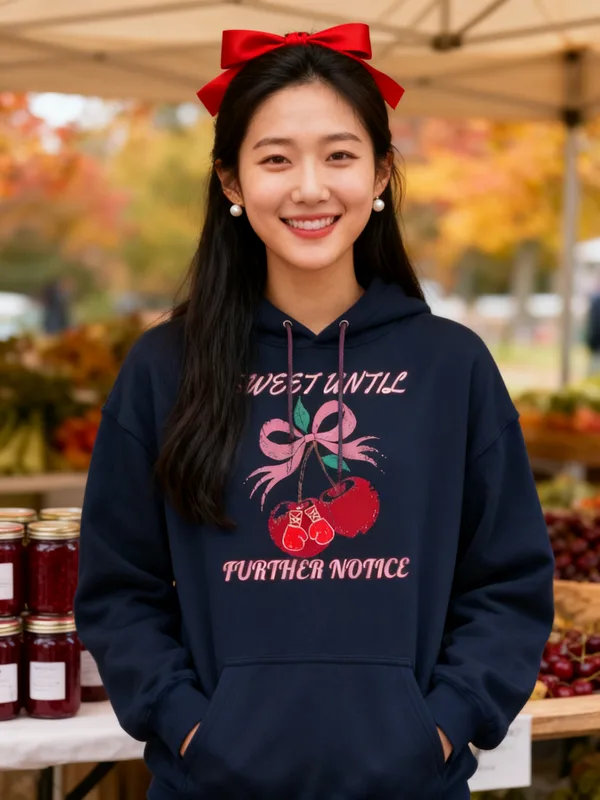
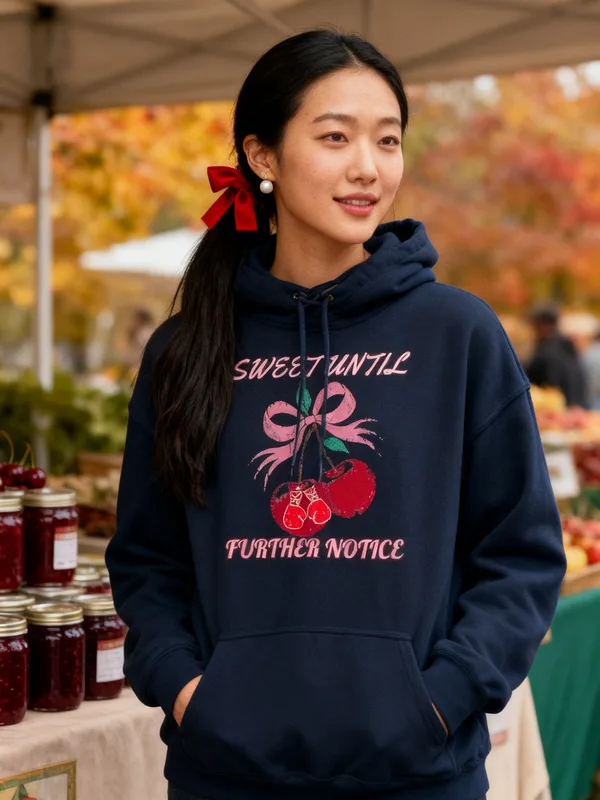
[C] redo 415 450 covers
Claude-Session: https://claude.ai/code/session_01XSSMqUiTodWLECXWDSkD2v

diff --git a/docs/pipeline/415-cherry-hoodie-cherry-picking-my-battles.md b/docs/pipeline/415-cherry-hoodie-cherry-picking-my-battles.md
@@ -1,4 +1,4 @@
-status: BUILDING [C] 2026-10-17 21:36 UTC
+status: REVIEW
 lane: C
 type: new
 id: 415
@@ -35,3 +35,4 @@ kd: 30
   1. R6.9: cover fails the overlap check: her hair hides the S of SWEET (the cover reads 'WEET UNTIL') and a drawstring crosses the bow. One more cover attempt (the R6.9 director-REDO try): Printful Navy mockup as --design, hair tied back behind the shoulders, hands in pockets, hood strings tucked or out of frame; read every word before saving.
   2. R8.3 / honest wording: the copy calls the lettering hand-drawn; it is set type. Describe it as script lettering. Meta description says 'Unisex' on a women's product: say women's.
   3. Line: keep 'Sweet Until Further Notice' (director call; the art was built before the 20:25 rewrite note and the boxing-glove cherries carry this line). No new art.
+- 2026-10-17 21:37 UTC builder [C]: REDO done: cover regenerated once (hair tied back, strings tucked; SWEET UNTIL reads whole, strings just touch the bow top); SEO meta now says women's; lettering described as script. Registry #608 same face. fal $0.06.

diff --git a/docs/pipeline/450-crow-hoodie-shiny-object-syndrome.md b/docs/pipeline/450-crow-hoodie-shiny-object-syndrome.md
@@ -1,4 +1,4 @@
-status: BUILDING [C] 2026-10-17 21:36 UTC
+status: REVIEW
 lane: C
 type: new
 id: 450
@@ -31,3 +31,4 @@ kd: 33
 - 2026-10-17 21:19 UTC director: REDO (cover only, no new art).
   1. R6.8: the woman wears a crewneck, not the hoodie (no hood in frame). Both people must wear the pullover hoodie with a visible hood in Navy. One more cover attempt with the Printful Navy mockup as --design, hands in pockets, read every word before saving.
   2. Art, copy and title pass; only the cover changes.
+- 2026-10-17 21:37 UTC builder [C]: REDO done: cover regenerated once with the Navy mockup as design; both people wear the hooded pullover, all words readable. Copy: 'hand-drawn' lettering wording fixed to slab capitals. fal $0.06.

diff --git a/docs/intake-log.md b/docs/intake-log.md
@@ -1,3 +1,4 @@
+2026-10-17 21:37 UTC — [C] REVIEW #415 + #450 redo covers redone.
 2026-10-17 21:35 UTC — [C] REVIEW #371 Sunshine With Boundaries sunflower zip hoodie (DRAFT, synced 14/14, fal cover).
 2026-10-17 21:35 UTC — [C] REVIEW #495 Rest Day Is a Sacred Quest medieval hoodie (DRAFT, synced 12/12, fal cover).
 2026-10-17 21:35 UTC — [C] REVIEW #364 Orange Slice Manager soccer zip hoodie (DRAFT, synced 12/12, fal cover).
